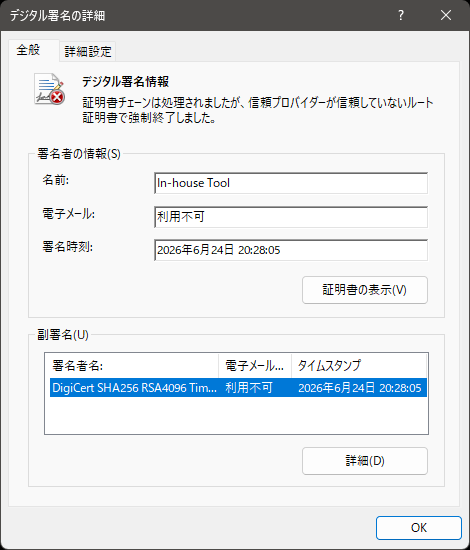
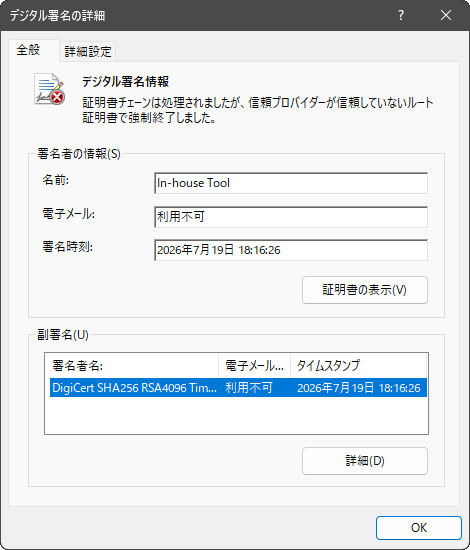
[MOD] for 1.1.15

diff --git a/Installation/README.md b/Installation/README.md
@@ -89,7 +89,7 @@
 ## [インストーラーの確認](#readme)
 
 正規品最新版の `ChkMails.msi` は, Explorer で右クリックしてプロパティーを見ると,
-`デジタル署名` のタブで下記のように `2026年6月24日` 付けのデジタル署名が付いていることが確認できます.
+`デジタル署名` のタブで下記のように `2026年7月19日` 付けのデジタル署名が付いていることが確認できます.
 
 ![](./prop.png)
 
@@ -110,9 +110,9 @@
 これをどう読み解くかというと,
 
 1. 署名者である `In-house Tool` とやらが署名を施したのが
-`2026年6月24日 20:28:05`
+`2026年7月19日 18:16:26`
 1. この署名に立ち会った `DigiCert` が 副署名を施したのも
-`2026年6月24日 20:28:05`
+`2026年7月19日 18:16:26`
 
 と, 両者の日時が一致しています.
 上記 1. だけなら署名者が自分の PC の時計をいじくって日時を捏造することも可能かもしれませんが,
@@ -128,10 +128,10 @@
 なので, あなたがゲットした `.msi` の署名も同様に確認してみましょう.
 
 日時が
-`2026年6月24日 20:28:05`
+`2026年7月19日 18:16:26`
 に一致していたらそれは正規品です.
 ソースを開示している原作者 `In-house Tool` が, その本人しか書き込めないこのページ上でこうして
-`2026年6月24日 20:28:05`
+`2026年7月19日 18:16:26`
 だと明言しているのですから, 間違いありません.
 
 > [!NOTE]
@@ -163,7 +163,7 @@
 だったらついでにこのページからダウンロードしていけばええんちゃう？
 とか考えてもええんちゃう？
 
-* インストールされる `ChkMails.exe` にも署名があり, `2026年6月24日 20:28:01` となっています.
+* インストールされる `ChkMails.exe` にも署名があり, `2026年7月19日 18:16:23` となっています.
 インストール後にでもご確認ください.
 
 `ChkMails.msi` が正規品最新版であることはご確認いただけましたか?
